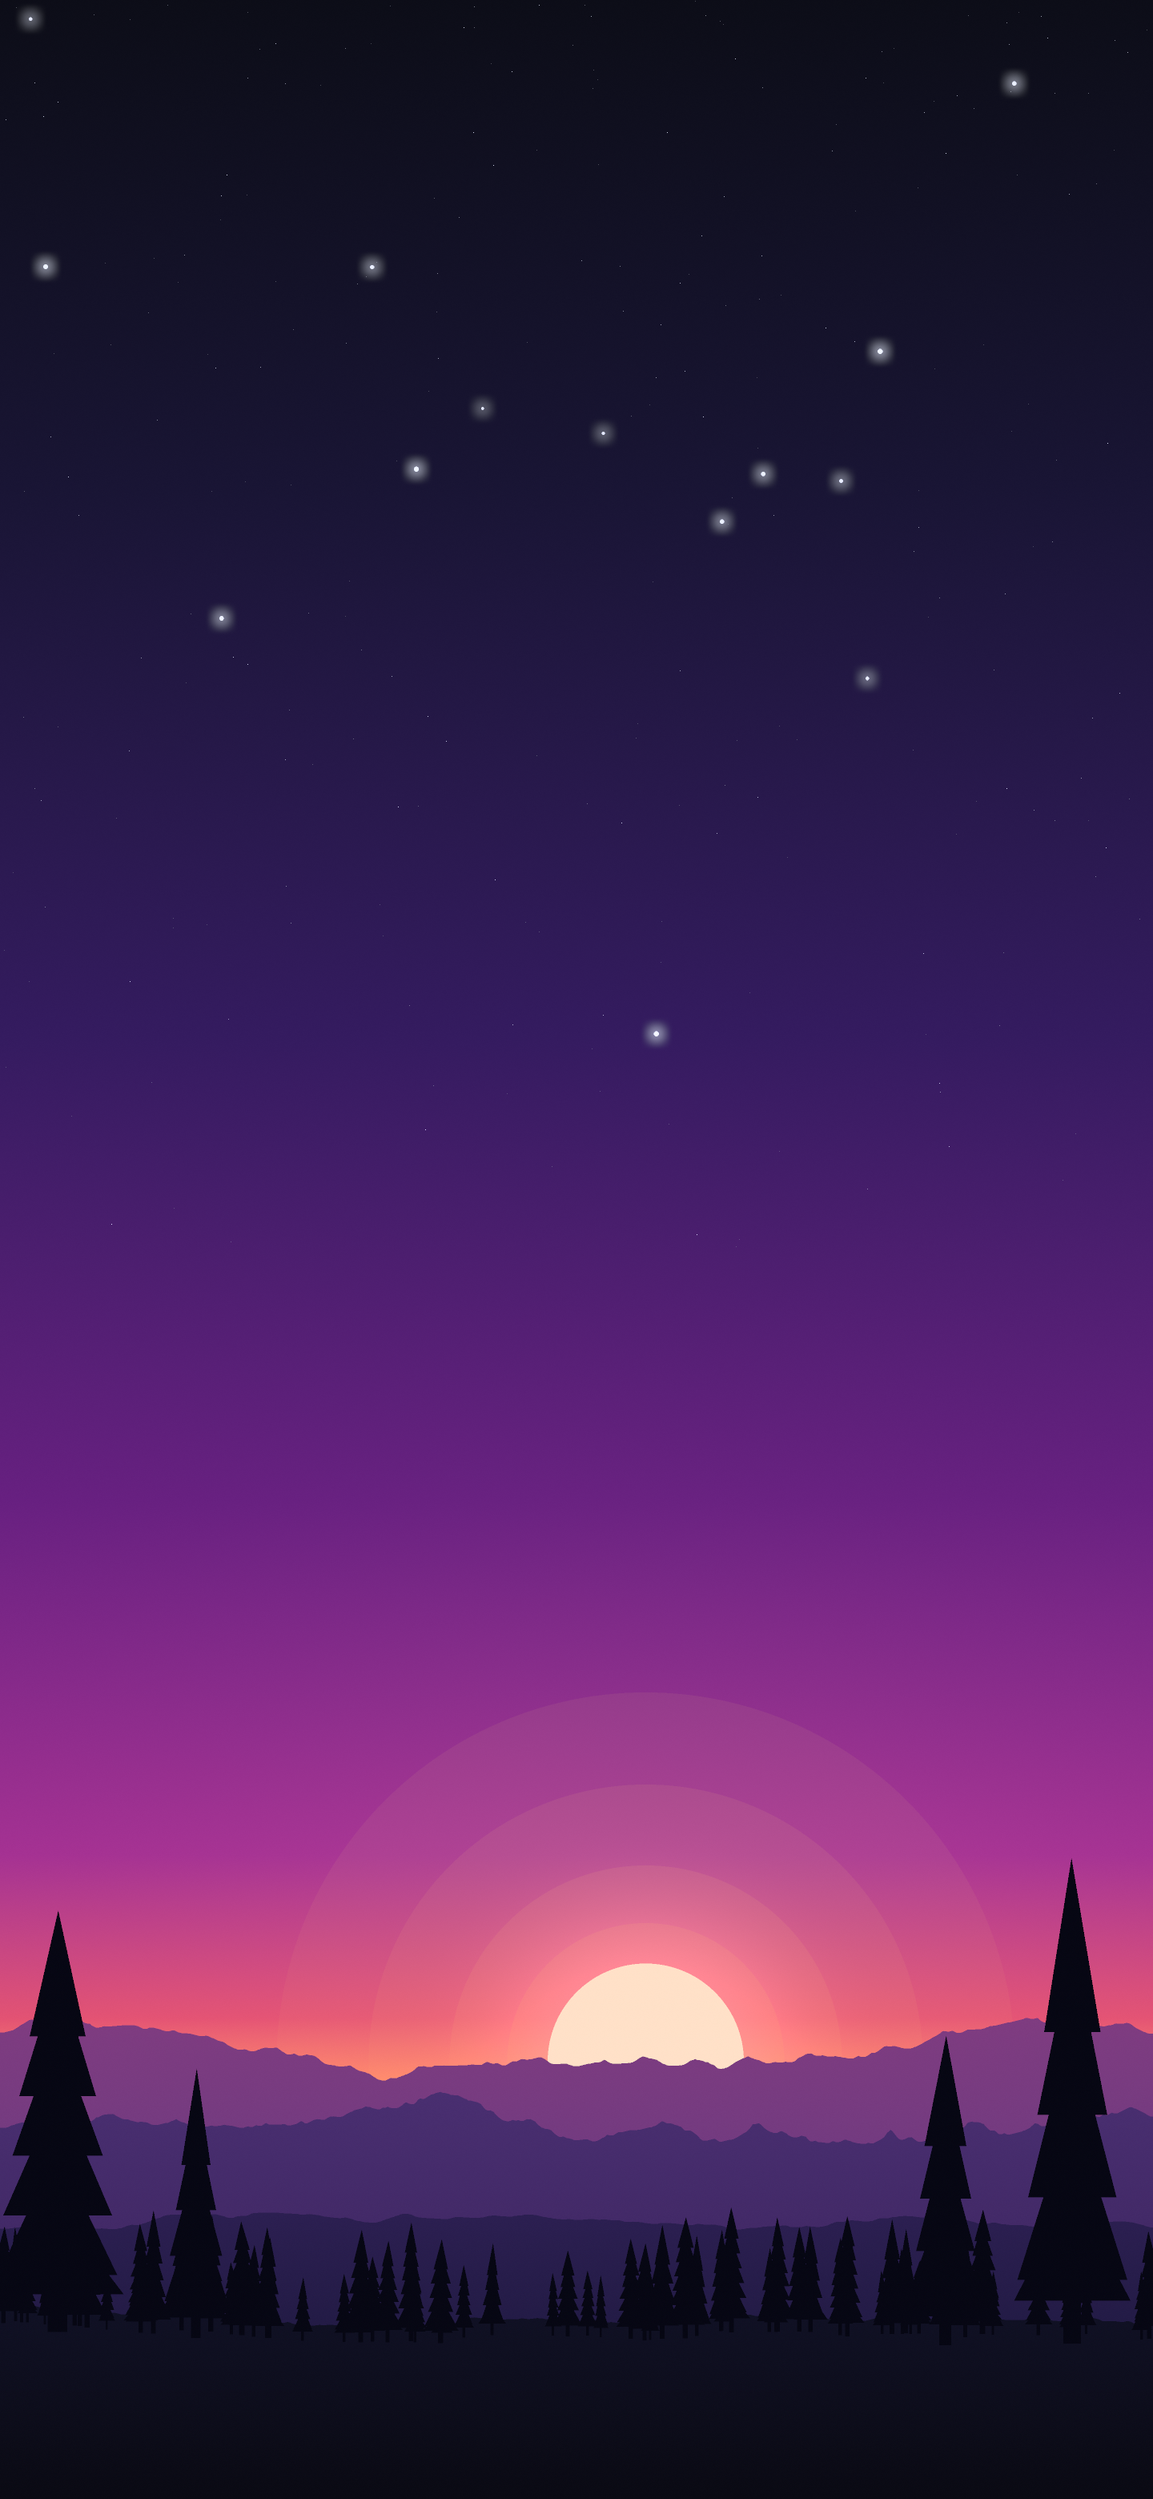
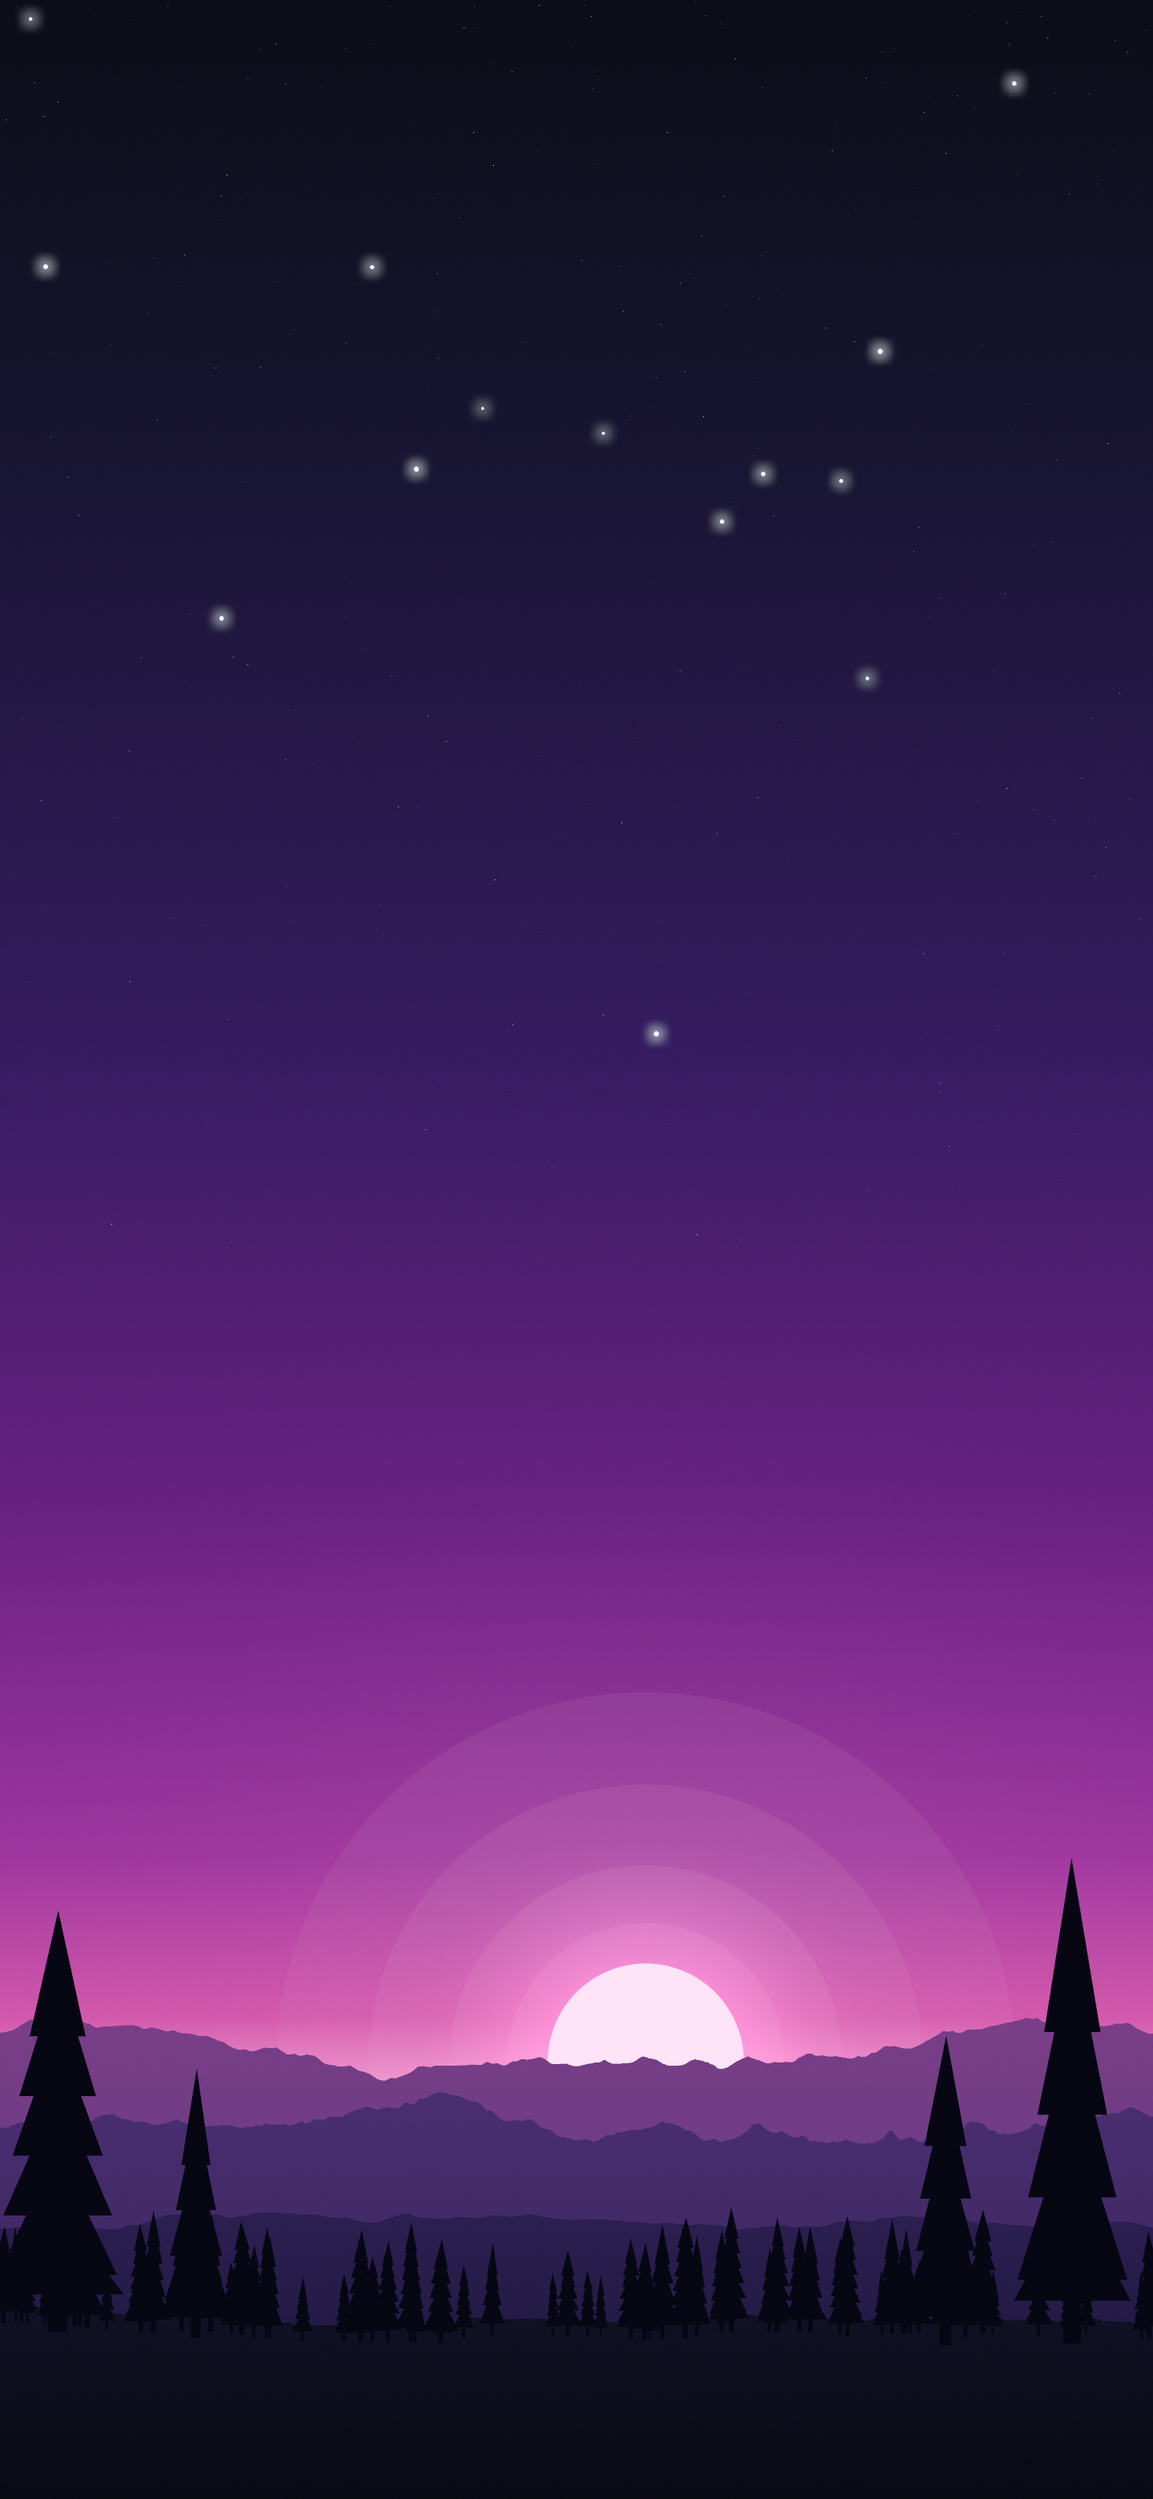
Keep the pinks, drop the reds
Omarchy's Tokyo Night desktop is navy, blue, violet and pink; its red,
orange and yellow are terminal colors. The kit gave them too much room.

- Palette sheet: red, bright_red, orange, brown, yellow and green move to a
  compact "terminal colors" group, labeled as terminal output only.
- Dusk and city: the warm end of the sky uses a hot pink placed where
  Omarchy's own lock-screen pink sits (60% from bright_magenta to
  bright_red), not bright_red and the orange bright_yellow. The horizon and
  sun are now pale pink rather than coral and orange, and city's orange
  windows are amber. One UI no longer gets red or coral seeds from them.
- verify.py fails if any wallpaper seed is red, coral or orange.
- KWGT palette tile and mock-up show the desktop colors instead of the
  ANSI row; the Theme Park badge uses the accent blue instead of red.

Claude-Session: https://claude.ai/code/session_01EFK5kHRr5GqcgXVdxufWf5

Changed region(s): [[0.0, 0.7462, 1.0, 0.8394]]

diff --git a/tools/omatheme/scenes.py b/tools/omatheme/scenes.py
@@ -123,17 +123,28 @@ def lock(p: Palette, w: int = W, h: int = H) -> Image.Image:
     return c.to_image(seed=11)
 
 
+def _pinks(p: Palette) -> tuple[float, float]:
+    """Hues for the warm end of the sky: a soft pink and a hot pink, both between violet and red.
+
+    The hot pink sits where Omarchy's own Tokyo Night pink does (its lock screen glow, #ff54d6, is about
+    60% of the way from bright_magenta to bright_red), so the sunsets read pink and magenta, never red
+    or orange: those palette colors are terminal colors, not part of the desktop look.
+    """
+    h_violet, h_red = hue_of(p["bright_magenta"]), hue_of(p["bright_red"])
+    return hue_lerp(h_violet, h_red, 0.40), hue_lerp(h_violet, h_red, 0.60)
+
+
 def dusk(p: Palette, w: int = W, h: int = H, seed: int = 7) -> Image.Image:
     """Layered ridges under a haloed setting sun, in the spirit of Omarchy's sunset backgrounds.
 
-    Hues come from the palette (navy -> violet -> rose -> sun); lightness and chroma are set by
-    design so the sky stays vivid yet dark enough for white app labels to stay readable.
+    Hues come from the palette (navy -> violet -> pink); lightness and chroma are set by design so
+    the sky stays vivid yet dark enough for white app labels to stay readable.
     """
     rng = np.random.default_rng(seed)
-    night, ink = p["background"], p["darker_background"]
-    violet, rose, sun = p["bright_magenta"], p["bright_red"], p["bright_yellow"]
-    h_night, h_violet, h_rose, h_sun = (hue_of(night), hue_of(violet), hue_of(rose), hue_of(sun))
-    h_pink = hue_lerp(h_violet, h_rose, 0.5)  # halfway from violet to rose
+    night, ink, violet = p["background"], p["darker_background"], p["bright_magenta"]
+    h_night, h_violet = hue_of(night), hue_of(violet)
+    h_pink, h_rose = _pinks(p)
+    rose = tint(violet, hue=h_rose)
 
     # The bright band sits below the app grid (~80% of the screen) and above the dock, so white
     # labels keep their contrast; verify.py checks this.
@@ -147,8 +158,8 @@ def dusk(p: Palette, w: int = W, h: int = H, seed: int = 7) -> Image.Image:
         (0.55 * k, tint(violet, L=0.400, C=0.160, hue=h_violet + 16)),
         (0.68 * k, tint(violet, L=0.520, C=0.185, hue=h_pink)),
         (0.74 * k, tint(rose, L=0.640, C=0.180)),
-        (horizon, tint(sun, L=0.760, C=0.150, hue=h_sun - 12)),
-        (1.00, tint(sun, L=0.760, C=0.150, hue=h_sun - 12)),
+        (horizon, tint(rose, L=0.780, C=0.120)),
+        (1.00, tint(rose, L=0.780, C=0.120)),
     ]
     c = Canvas(w, h).vgradient(sky)
 
@@ -160,10 +171,10 @@ def dusk(p: Palette, w: int = W, h: int = H, seed: int = 7) -> Image.Image:
     disc = Shapes(w, h).ellipse(sx, sy, w * 0.085).mask()
     c.glow(disc, glow_rose, 80.0, 1.0)
     c.glow(disc, glow_rose, 340.0, 0.8)
-    ring_color = tint(sun, L=0.80, C=0.12)
+    ring_color = tint(rose, L=0.82, C=0.10)
     for radius, alpha in ((0.32, 0.045), (0.24, 0.065), (0.17, 0.095), (0.12, 0.14)):
         c.paint(ring_color, Shapes(w, h).ellipse(sx, sy, w * radius).mask(), alpha)
-    c.paint(tint(sun, L=0.94, C=0.06), disc)
+    c.paint(tint(rose, L=0.95, C=0.045), disc)
 
     # ridges: far -> near; each is a vertical gradient (lit crest, darker base)
     ys = np.arange(h) + 0.5
@@ -196,9 +207,10 @@ def city(p: Palette, w: int = W, h: int = H, seed: int = 21) -> Image.Image:
     """A neon skyline under a pink-clouded night sky: the 'Tokyo night' of the theme's name."""
     rng = np.random.default_rng(seed)
     night, ink = p["background"], p["darker_background"]
-    violet, rose, sun, blue = p["bright_magenta"], p["bright_red"], p["bright_yellow"], p["blue"]
-    h_night, h_violet, h_rose = hue_of(night), hue_of(violet), hue_of(rose)
-    h_pink = hue_lerp(h_violet, h_rose, 0.5)
+    violet, blue = p["bright_magenta"], p["blue"]
+    h_night, h_violet = hue_of(night), hue_of(violet)
+    h_pink, h_rose = _pinks(p)
+    rose = tint(violet, hue=h_rose)
 
     sky = [
         (0.00, tint(night, L=0.160, C=0.022)),
@@ -255,8 +267,9 @@ def city(p: Palette, w: int = W, h: int = H, seed: int = 21) -> Image.Image:
 
     # skyline: three depth layers of rectangular towers with lit windows
     ground = int(h * 0.905)
-    lit_colors = [tint(p["yellow"], L=0.86, C=0.12), tint(sun, L=0.80, C=0.14), tint(p["bright_cyan"], L=0.80, C=0.11),
-                  tint(rose, L=0.78, C=0.14), tint(p["bright_foreground"], L=0.90, C=0.05)]
+    lit_colors = [tint(p["yellow"], L=0.86, C=0.12), tint(p["yellow"], L=0.80, C=0.09),
+                  tint(p["bright_cyan"], L=0.80, C=0.11), tint(rose, L=0.78, C=0.14),
+                  tint(p["bright_foreground"], L=0.90, C=0.05)]
     lit_weights = np.array([0.42, 0.20, 0.16, 0.10, 0.12])
     emissive = np.zeros((h, w, 3), np.float32)
     layers = [  # width range, height range (frac of h), cell (w, h), lit prob range, body, window scale
@@ -281,7 +294,7 @@ def city(p: Palette, w: int = W, h: int = H, seed: int = 21) -> Image.Image:
                 x0, x1 = max(tx, 0), min(tx + tw, w)
                 if x1 > x0:
                     c.px[max(ty, 0):tb, x0:x1] = body_lin
-            if li == 2 and rng.random() < 0.30 and bw > 80:  # antenna with a red aviation light
+            if li == 2 and rng.random() < 0.30 and bw > 80:  # antenna with a pink aviation light
                 ax, ah = x + bw // 2, int(rng.uniform(0.02, 0.05) * h)
                 c.px[max(top - ah, 0):top, max(ax - 2, 0):ax + 2] = body_lin
                 rims.append((ax - 2, top - ah, top))
@@ -354,43 +367,55 @@ def _font(weight: str, size: int) -> ImageFont.FreeTypeFont:
 def palette_card(p: Palette, w: int = 1080, h: int = 2340) -> Image.Image:
     """A phone-sized swatch sheet: compare it against One UI's color pickers.
 
-    Every color in the palette appears once; keys that repeat another key's value (Tokyo Night's
-    ``blue`` equals its ``accent``) are shown under the first name only.
+    The desktop look (surfaces, text, accents) gets large tiles. The rest of the terminal palette
+    (red, orange, yellow, green, brown) gets small ones under its own heading: Omarchy uses those for
+    terminal output such as errors and git diffs, not for the look of the desktop. Every color appears
+    once; keys that repeat another key's value (Tokyo Night's ``blue`` equals its ``accent``) are shown
+    under the first name only.
     """
-    pad, gap, cols, tile_h = 48, 14, 2, 108
-    groups = [
+    pad, gap = 48, 14
+    groups = [  # title, keys, columns, tile height, caption
         ("surfaces", ["background", "lighter_background", "dark_background", "darker_background",
-                      "selection", "muted"]),
-        ("text", ["foreground", "bright_foreground", "light_foreground", "dark_foreground"]),
-        ("accents", ["accent", "blue", "bright_blue", "magenta", "bright_magenta", "cyan", "bright_cyan",
-                     "green", "bright_green", "yellow", "bright_yellow", "orange", "red", "bright_red"]),
+                      "selection", "muted"], 2, 108, None),
+        ("text", ["foreground", "bright_foreground", "light_foreground", "dark_foreground"], 2, 108, None),
+        ("accents", ["accent", "blue", "bright_blue", "magenta", "bright_magenta", "cyan", "bright_cyan"],
+         2, 108, None),
+        ("terminal colors", ["red", "bright_red", "orange", "brown", "yellow", "bright_yellow", "green",
+                             "bright_green"], 4, 76, "terminal output only (errors, git diffs), not the desktop look"),
     ]
-    known = {k for _, ks in groups for k in ks}
-    groups.append(("other", [k for k in p if k not in known]))
+    known = {k for _, ks, *_ in groups for k in ks}
+    groups.append(("other", [k for k in p if k not in known], 4, 76, None))
     seen, shown = set(), []
-    for title, keys in groups:
+    for title, keys, cols, tile_h, caption in groups:
         keep = []
         for key in keys:
             if key in p and p[key] not in seen:
                 seen.add(p[key])
                 keep.append(key)
         if keep:
-            shown.append((title, keep))
+            shown.append((title, keep, cols, tile_h, caption))
 
-    def rows(keys):
+    def rows(keys, cols):
         return (len(keys) + cols - 1) // cols
 
-    needed = 220 + sum(52 + rows(keys) * (tile_h + gap) + 26 for _, keys in shown) + pad
+    def height(keys, cols, tile_h, caption):
+        return 52 + (40 if caption else 0) + rows(keys, cols) * (tile_h + gap) + 26
+
+    needed = 220 + sum(height(*g[1:]) for g in shown) + pad
     img = Image.new("RGB", (w, max(h, needed)), p["background"])
     d = ImageDraw.Draw(img)
     d.text((pad, 70), p.name, font=_font("Bold", 64), fill=p["bright_foreground"])
     d.text((pad, 150), "Omarchy colors.toml", font=_font("Regular", 30), fill=p["dark_foreground"])
 
-    tile_w = (w - 2 * pad - gap * (cols - 1)) // cols
     y = 220
-    for title, keys in shown:
+    for title, keys, cols, tile_h, caption in shown:
         d.text((pad, y), title, font=_font("Bold", 30), fill=p["foreground"])
         y += 52
+        if caption:
+            d.text((pad, y - 8), caption, font=_font("Regular", 24), fill=p["dark_foreground"])
+            y += 40
+        small = cols > 2
+        tile_w = (w - 2 * pad - gap * (cols - 1)) // cols
         for i, key in enumerate(keys):
             x = pad + (i % cols) * (tile_w + gap)
             yy = y + (i // cols) * (tile_h + gap)
@@ -399,9 +424,13 @@ def palette_card(p: Palette, w: int = 1080, h: int = 2340) -> Image.Image:
             d.rectangle([x, yy, x + tile_w - 1, yy + tile_h - 1], fill=fill,
                         outline=p["accent"] if focused else p["muted"], width=3)
             ink = max((p["background"], p["bright_foreground"]), key=lambda c: contrast(fill, c))
-            d.text((x + 20, yy + 12), key, font=_font("Regular", 26), fill=ink)
-            d.text((x + 20, yy + 48), rgb_to_hex(fill), font=_font("Bold", 44), fill=ink)
-        y += rows(keys) * (tile_h + gap) + 26
+            if small:
+                d.text((x + 14, yy + 9), key, font=_font("Regular", 19), fill=ink)
+                d.text((x + 14, yy + 34), rgb_to_hex(fill), font=_font("Bold", 28), fill=ink)
+            else:
+                d.text((x + 20, yy + 12), key, font=_font("Regular", 26), fill=ink)
+                d.text((x + 20, yy + 48), rgb_to_hex(fill), font=_font("Bold", 44), fill=ink)
+        y += rows(keys, cols) * (tile_h + gap) + 26
     return img
 
 
@@ -483,7 +512,8 @@ def kwgt_mockup(p: Palette, w: int = 1080, h: int = 2340, background: Image.Imag
     tile(left, 614, right, 790, p["muted"])
     d.text((left + 26, 668), p.name, font=_font("Bold", 40), fill=p["bright_foreground"], anchor="lm")
     d.text((left + 26, 722), "omarchy colors", font=label, fill=p["dark_foreground"], anchor="lm")
-    swatches = ["red", "yellow", "green", "cyan", "blue", "magenta", "bright_foreground"]
+    # the desktop look's colors; red, orange and the other terminal-only colors stay off the home screen
+    swatches = ["accent", "magenta", "cyan", "bright_cyan", "muted", "bright_foreground"]
     size, gap = 52, 14
     sx = right - 26 - (len(swatches) * size + (len(swatches) - 1) * gap)
     for i, key in enumerate(swatches):

diff --git a/tools/verify.py b/tools/verify.py
@@ -29,6 +29,12 @@ HOME_ZONES = {"status bar": (0.0, 0.036), "icon grid": (0.12, 0.78), "dock": (0.
 LOCK_ZONES = {"status bar": (0.0, 0.036), "clock + notifications": (0.04, 0.50)}
 ZONES = {"dusk": HOME_ZONES, "city": HOME_ZONES, "solid": HOME_ZONES, "lock": LOCK_ZONES}
 
+# Omarchy's Tokyo Night desktop is navy, blue, violet and pink; red, orange and coral are only terminal
+# colors. A seed in this HCT hue band (with real chroma) would let One UI offer a red palette, so it fails.
+# Pinks and magentas, such as Omarchy's own lock-screen glow #ff54d6 (hue 343), stay below 350.
+RED_HUES = (350.0, 50.0)  # wraps through 0
+RED_MIN_CHROMA = 20.0
+
 MAX_FRACTION_BELOW_3_TO_1 = 0.02  # at most 2% of a zone may fall under WCAG's 3:1 for large text/icons
 
 
@@ -104,8 +110,11 @@ def main() -> int:
             for argb, hue, chroma, tone in found:
                 gap = min((hue_gap(hue, a) for a in anchors.values()), default=999)
                 near |= gap <= 30
+                red = (hue >= RED_HUES[0] or hue <= RED_HUES[1]) and chroma >= RED_MIN_CHROMA
+                failed |= red
+                label = "FAIL: red/orange" if red else "near Tokyo Night" if gap <= 30 else ""
                 print(f"  seed      #{argb & 0xFFFFFF:06x}  hue {hue:5.1f}  chroma {chroma:5.1f}  tone {tone:5.1f}"
-                      f"   {'near Tokyo Night' if gap <= 30 else ''}")
+                      f"   {label}")
             note = ("at least one seed within 30 deg of Tokyo Night blue/violet/navy" if near
                     else "WARN: no seed near Tokyo Night hues")
             print(f"  palette   {note}")

diff --git a/docs/limits.md b/docs/limits.md
@@ -93,15 +93,16 @@ Replacing One UI Home with a store launcher was researched and left out of the k
   [kwgt.md](kwgt.md), and that free KWGT can build a widget from scratch.
 - Wallpapers (`tools/verify.py`): exact 1440x3120, white-text contrast over typical icon-grid, dock and
   status-bar zones, and Material You seed extraction after the same 112x112-area downscale Android's
-  `WallpaperColors` applies (still a proxy; see below).
+  `WallpaperColors` applies (still a proxy; see below). It fails if any seed is red, coral or orange: Omarchy's
+  Tokyo Night desktop is navy, blue, violet and pink, and its reds are only terminal colors.
 
 ## Not verified
 
 - **Anything on a physical S25.** Samsung menu paths and labels, Theme Park's controls (hex entry,
   custom shape images), how Termux's Play build behaves, and how the font and colors actually render.
 - **One UI's own Color palette algorithm** is closed. `verify.py` runs Google's Material algorithm on each
-  wallpaper as a stand-in; every wallpaper yields at least one seed near Tokyo Night's blue/violet/navy,
-  but One UI's picker may offer different swatches.
+  wallpaper as a stand-in; every wallpaper yields at least one seed near Tokyo Night's blue/violet/navy and
+  none in the red/orange range, but One UI's picker may offer different swatches.
 - **Zone positions** (icon grid 12-78% of the height, dock below 88%) are typical One UI home layouts, not
   measurements of yours.
 - **The square-plate trick** for Theme Park icons (see [theme-park.md](theme-park.md)).

diff --git a/docs/kwgt.md b/docs/kwgt.md
@@ -89,8 +89,9 @@ formula `$if(bi(charging)=1, Always, Never)$`, which shows only while charging
 `$if(bi(charging)=1, charging, discharging)$` in `#a9b1d6`. For the bar, draw a `#292e42` rectangle as the track and a
 `#9ece6a` one on top whose width is a formula of the battery level. If you find Kustom's Progress layer, use that.
 
-**Palette tile** (4x1, border `#414868`): `tokyo-night` in `#c0caf5` bold, `omarchy colors` in `#565f89`, and seven
-small squares: `#f7768e`, `#e0af68`, `#9ece6a`, `#449dab`, `#7aa2f7`, `#ad8ee6`, `#c0caf5`.
+**Palette tile** (4x1, border `#414868`): `tokyo-night` in `#c0caf5` bold, `omarchy colors` in `#565f89`, and six
+small squares in the desktop colors: `#7aa2f7`, `#ad8ee6`, `#449dab`, `#0db9d7`, `#414868`, `#c0caf5`. (Red, orange
+and yellow are Omarchy's terminal colors, not part of its desktop look.)
 
 ## 4. Notes
 

diff --git a/docs/theme-park.md b/docs/theme-park.md
@@ -50,7 +50,7 @@ every value on the phone.
 | Icon label color | `#a9b1d6` | `foreground` |
 | Effects (emboss, shadow, gradient) | none | Omarchy is flat |
 | Shape | the squarest option | Omarchy's windows have square corners |
-| Home badge color (One UI 8.5+) | `#f7768e` | `red` |
+| Home badge color (One UI 8.5+) | `#7aa2f7` | `accent`: Omarchy's red is a terminal color (errors), not part of the desktop look |
 
 ## Keyboard and volume panel
 
